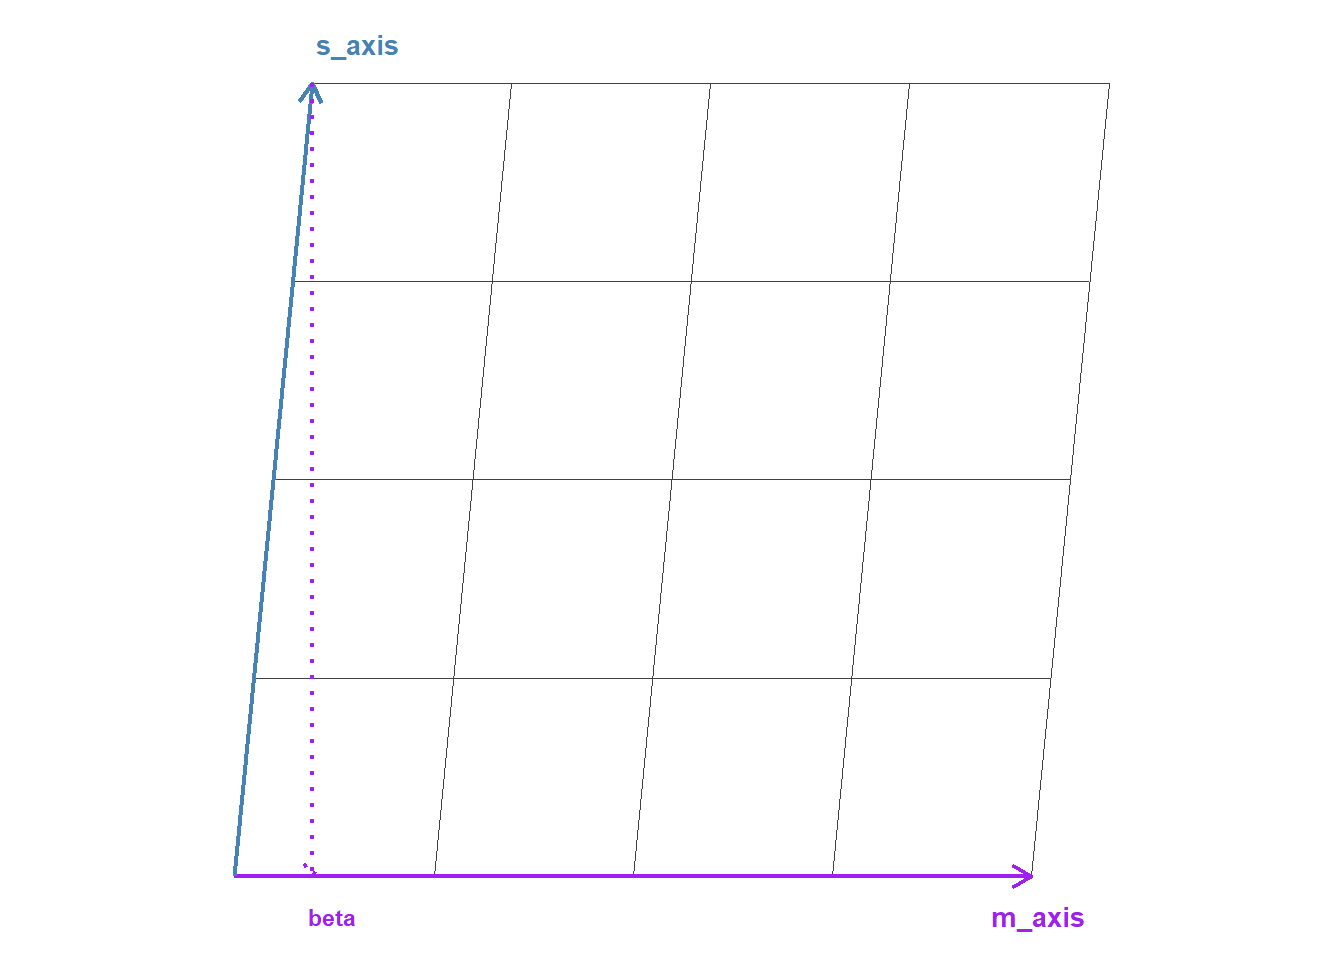
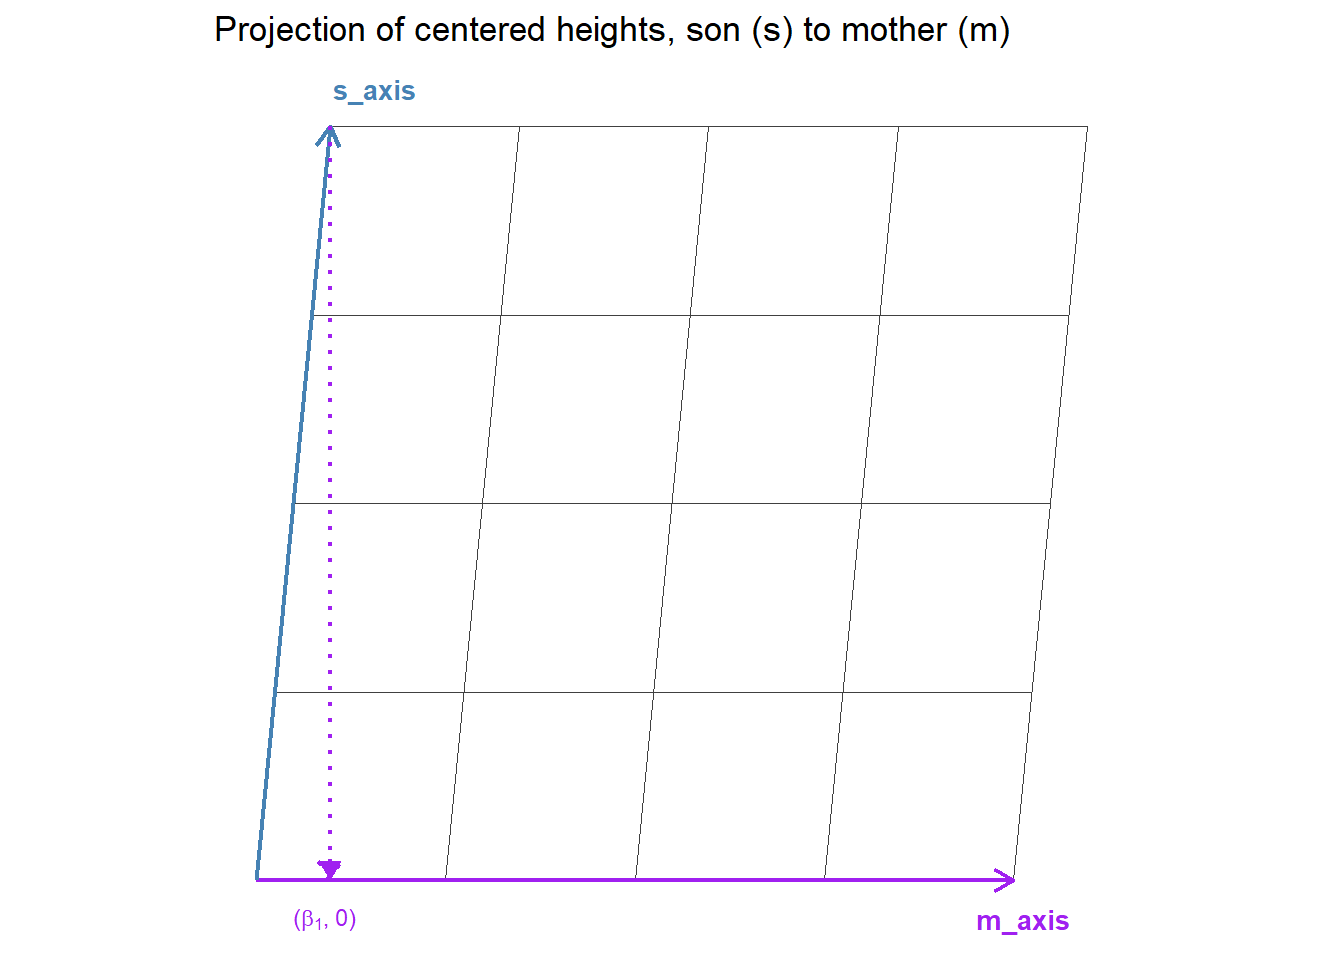
la-intro.qmd > Col v Row Viz: complete 2D illustration of regressing centered height of son on centered height of mother.  Now prepare to move from 2D, s ~ m, to 3D, s ~ m + f.

Changed region(s): [[0.1562, 0.0, 0.75, 0.75], [0.1875, 0.875, 0.8125, 0.9688]]

diff --git a/_book/la-intro.html b/_book/la-intro.html
@@ -399,7 +399,7 @@ window.Quarto = {
     <div>
     <div class="quarto-title-meta-heading">Published</div>
     <div class="quarto-title-meta-contents">
-      <p class="date">13:51 Sun 26-Oct-2025</p>
+      <p class="date">20:49 Sun 26-Oct-2025</p>
     </div>
   </div>
   
@@ -1344,9 +1344,40 @@ Figure&nbsp;6.6: Projection of centered heights, son (s) to mother (m)
 \qquad(6.40)\]</span></span></p>
 <p>Then <span class="math inline">\(v\)</span> has coordinates <span class="math inline">\((\sigma, \mu)\)</span> with respect to the <span class="math inline">\(( \dot{m}_\bullet, \dot{s}_\bullet )\)</span> basis.</p>
 <p>Consequently the coordinates of vectors <span class="math inline">\(\dot{m}_\bullet\)</span>, <span class="math inline">\(\dot{s}_\bullet\)</span>, and <span class="math inline">\(\hat{\dot{y}}_\bullet\)</span> are respectively <span class="math inline">\((1, 0)\)</span>, <span class="math inline">\((0, 1)\)</span>, and <span class="math inline">\((\hat{\beta}_1, 0)\)</span>.</p>
-<p>Note that the <span class="math inline">\(\dot{s}_\bullet\)</span> axis is not quite perpendicular to the <span class="math inline">\(\dot{m}_\bullet\)</span> axis. The two axes have been drawn so that the angle between them, say <span class="math inline">\(\theta_{m, s}\)</span>, has a cosine equal to the correlation coefficient, say <span class="math inline">\(r_{m, s}\)</span>, between the two data vectors. That is, <span class="math inline">\(\cos(\theta_{m, s}) = r_{m, s}\)</span>. Since the correlation coefficient is positive rather than zero, the cosine is also positive, so that <span class="math inline">\(\theta_{m, s} &lt; \pi / 2\)</span>.</p>
+<p>Note that the <span class="math inline">\(\dot{s}_\bullet\)</span> axis is not quite perpendicular to the <span class="math inline">\(\dot{m}_\bullet\)</span> axis. That is because the two vectors are not orthogonal:</p>
+<p><span id="eq-m-s-inner-product"><span class="math display">\[
+\begin{align}
+  \left &lt; \dot{m}_\bullet, \; \dot{s}_\bullet \right &gt; &amp;= \dot{m}_\bullet^\top \; \dot{s}_\bullet \\
+  &amp;\ne 0
+\end{align}
+\qquad(6.41)\]</span></span></p>
+<p>Instead we have the following non-zero correlation coefficient, denoted here as <span class="math inline">\(r_{m, s}\)</span>. <a href="#fn14" class="footnote-ref" id="fnref14" role="doc-noteref"><sup>14</sup></a></p>
+<p><span id="eq-m-s-cor"><span class="math display">\[
+\begin{align}
+  r_{m, s} &amp;= \left ( \frac{\dot{m}_\bullet}{\lVert \dot{m}_\bullet \rVert} \right )^\top \;
+  \left ( \frac{\dot{s}_\bullet}{\lVert \dot{s}_\bullet \rVert} \right ) \\
+  &amp;\approx 0.1
+\end{align}
+\qquad(6.42)\]</span></span></p>
+<p>In linear algebra the expression for <span class="math inline">\(r_{m, s}\)</span> is defined to be the cosine of the angle between vectors <span class="math inline">\(\dot{m}_\bullet\)</span> and <span class="math inline">\(\dot{s}_\bullet\)</span>.</p>
+<p>Therefore the two axes have been drawn so that the angle between them, say <span class="math inline">\(\theta_{m, s}\)</span>, has a cosine equal to the correlation coefficient, <span class="math inline">\(r_{m, s}\)</span>. That is, <span class="math inline">\(\cos(\theta_{m, s}) = r_{m, s}\)</span>. Since the correlation coefficient is positive rather than zero, the cosine is also positive, so that <span class="math inline">\(\theta_{m, s} &lt; \pi / 2\)</span>.</p>
 <p><a href="#fig-gg-sm-smpl-ctr" class="quarto-xref">Figure&nbsp;<span>6.6</span></a> is a column based view of the linear regression of the centered heights of the sons <span class="math inline">\((\dot{s}_\bullet)\)</span> on the centered heights of their mothers <span class="math inline">\((\dot{m}_\bullet)\)</span> as an illustration of the simplicity of linear least-squares regression as an orthogonal projection.</p>
-<p>Figure XXX below gives the more commonly used row-based illustration of the same linear regression.</p>
+<p><a href="#fig-sm-smpl-ctr" class="quarto-xref">Figure&nbsp;<span>6.7</span></a> below gives the more commonly used (row-based) illustration of the same linear regression.</p>
+<div class="cell">
+<div class="cell-output-display">
+<div id="fig-sm-smpl-ctr" class="quarto-float quarto-figure quarto-figure-center anchored">
+<figure class="quarto-float quarto-float-fig figure">
+<div aria-describedby="fig-sm-smpl-ctr-caption-0ceaefa1-69ba-4598-a22c-09a6ac19f8ca">
+<img src="la-intro_files/figure-html/fig-sm-smpl-ctr-1.png" class="img-fluid figure-img" width="672">
+</div>
+<figcaption class="quarto-float-caption-bottom quarto-float-caption quarto-float-fig" id="fig-sm-smpl-ctr-caption-0ceaefa1-69ba-4598-a22c-09a6ac19f8ca">
+Figure&nbsp;6.7: Centered heights: son ~ mother regression line
+</figcaption>
+</figure>
+</div>
+</div>
+</div>
+<p>The two perspectives on linear regression are complementary. <a href="#fig-sm-smpl-ctr" class="quarto-xref">Figure&nbsp;<span>6.7</span></a> portrays individual rows of data (families here). This is the most common means of visualizing data in two dimensions, and with good reason: it can be very thought-provoking and thus useful for refining models. This view of the regression problem shows model <em>results</em>. To understand the model itself, the column-based perspective, illustrated by <a href="#fig-gg-sm-smpl-ctr" class="quarto-xref">Figure&nbsp;<span>6.6</span></a>, can be helpful.</p>
 <section id="least-squares-two-perspectives" class="level3" data-number="6.4.1">
 <h3 data-number="6.4.1" class="anchored" data-anchor-id="least-squares-two-perspectives"><span class="header-section-number">6.4.1</span> Least Squares: Two Perspectives</h3>
 </section>
@@ -1443,6 +1474,7 @@ LeCun, Yann, Corinna Cortes, and Christopher J. C. Burges. 2005. <span>“The MN
 <li id="fn11"><p>The regression plane qualifies as a linear manifold, mathematically speaking.<a href="#fnref11" class="footnote-back" role="doc-backlink">↩</a></p></li>
 <li id="fn12"><p>Centering is a linear operation, which means that it can be represented by a matrix <span class="math inline">\(C = I - \frac{1}{n} \; 1_\bullet \; 1_\bullet^\top\)</span>.<a href="#fnref12" class="footnote-back" role="doc-backlink">↩</a></p></li>
 <li id="fn13"><p>The terms <span class="math inline">\(n-\)</span>dimensional space and <span class="math inline">\(n-\)</span>space are shorthand for “an <span class="math inline">\(n-\)</span>dimensional vector space <span class="math inline">\(\mathcal{V}\)</span> over the field <span class="math inline">\(\mathbb{R}\)</span> of real numbers”. Similarly, the term <span class="math inline">\(n-\)</span>vector means a vector <span class="math inline">\(v \in \mathcal{V}\)</span>. Once a set of basis vectors is identified in <span class="math inline">\(\mathcal{V}\)</span>, any <span class="math inline">\(v \in \mathcal{V}\)</span> can be identified by its coordinates with respect to the given basis. An identified basis of <span class="math inline">\(n\)</span> vectors gives an isomorphism from <span class="math inline">\(\mathcal{V}\)</span> to <span class="math inline">\(\mathbb{R}^n\)</span>. Data are often collected and presented in the form of a data matrix, where a column of numeric values in <span class="math inline">\(n\)</span> successive rows provides an automatic representation as a vector in <span class="math inline">\(\mathbb{R}^n\)</span>. In the data set of family heights, for example, each row of data corresponds to a distinct family, and a column vector, the mother’s height for example, is represented as <span class="math inline">\(m_\bullet = (m_1, \ldots, m_n) \in \mathbb{R}^n\)</span>, where <span class="math inline">\(m_i\)</span> refers to the height in inches of the mother in family <span class="math inline">\(i\)</span>.<a href="#fnref13" class="footnote-back" role="doc-backlink">↩</a></p></li>
+<li id="fn14"><p>The cited value of the correlation coefficient <span class="math inline">\(r_{m, s}\)</span> pertains to the random sample of size 20 created to facilitate a detailed view of regression residuals. Among all 179 families whose oldest child was a son, we have <span class="math inline">\(r_{m, s} \approx 0.3\)</span>.<a href="#fnref14" class="footnote-back" role="doc-backlink">↩</a></p></li>
 </ol>
 </section>
 
